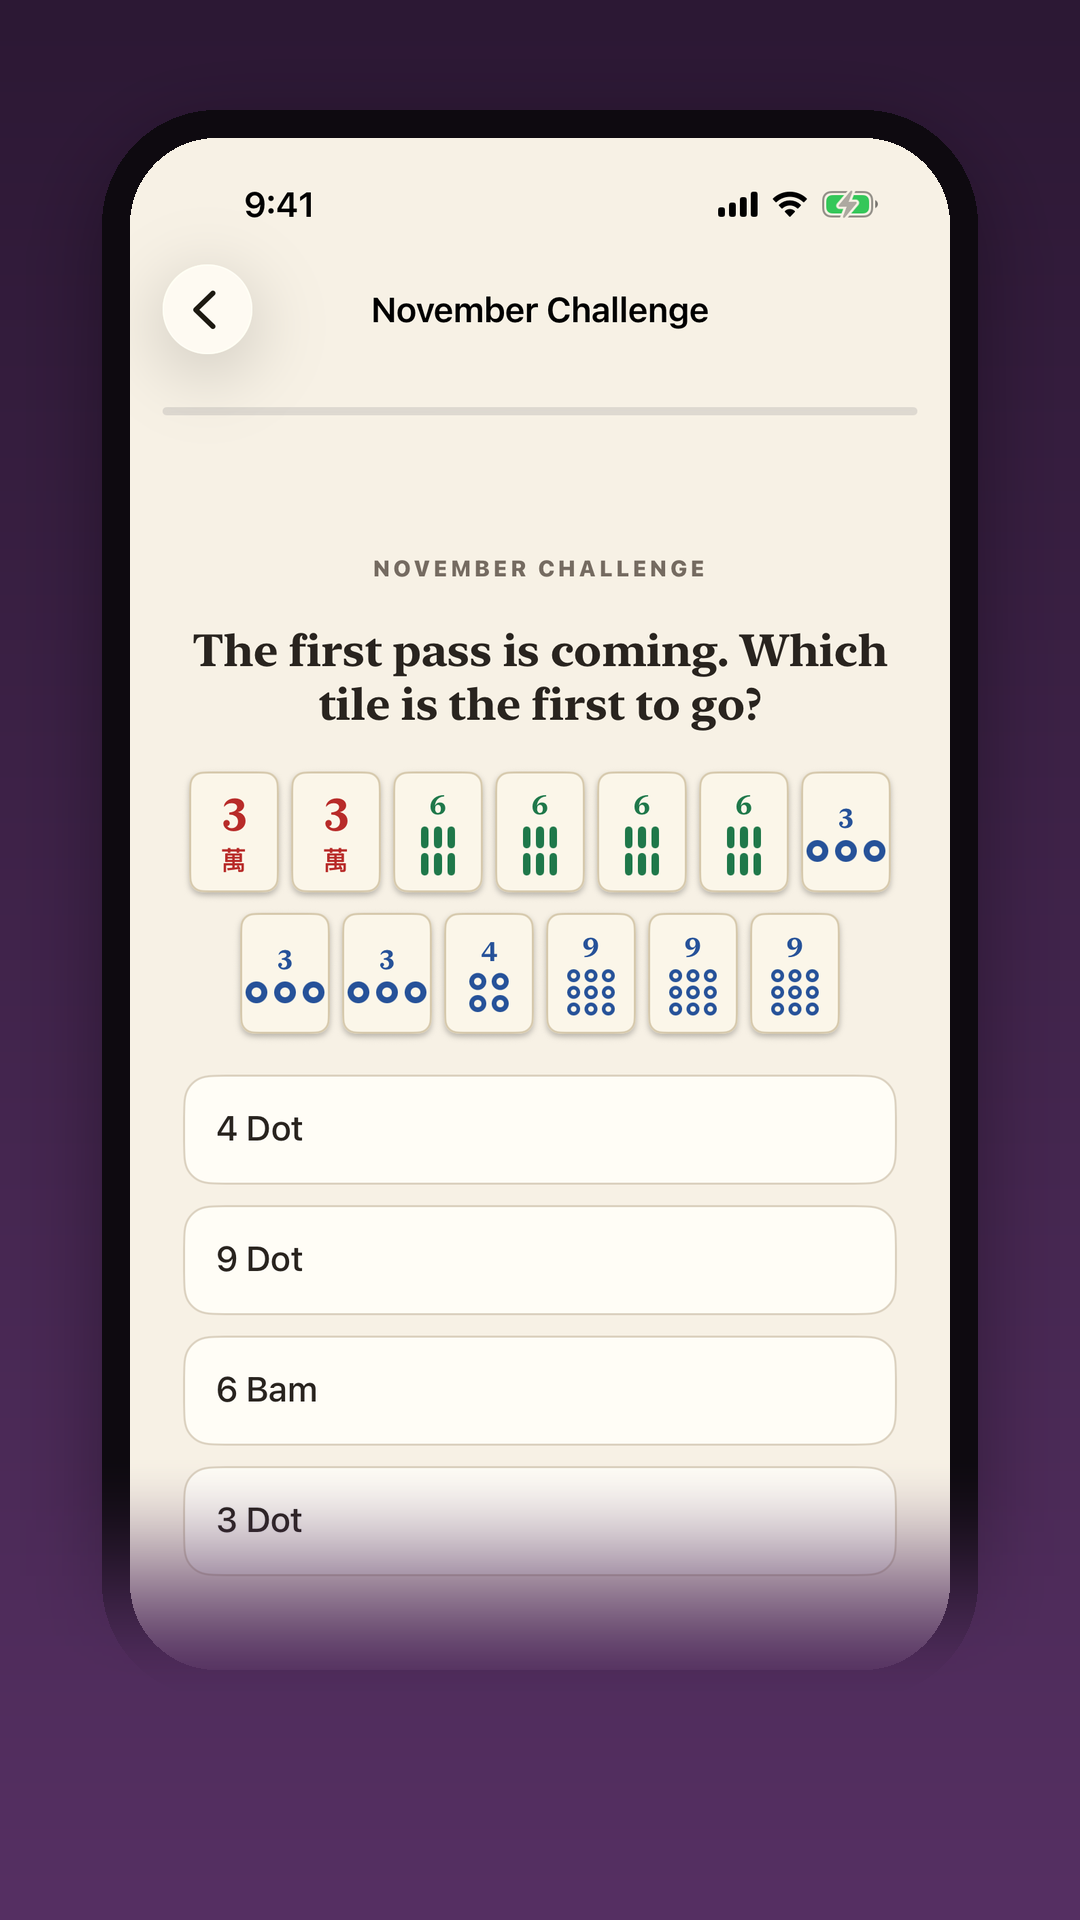
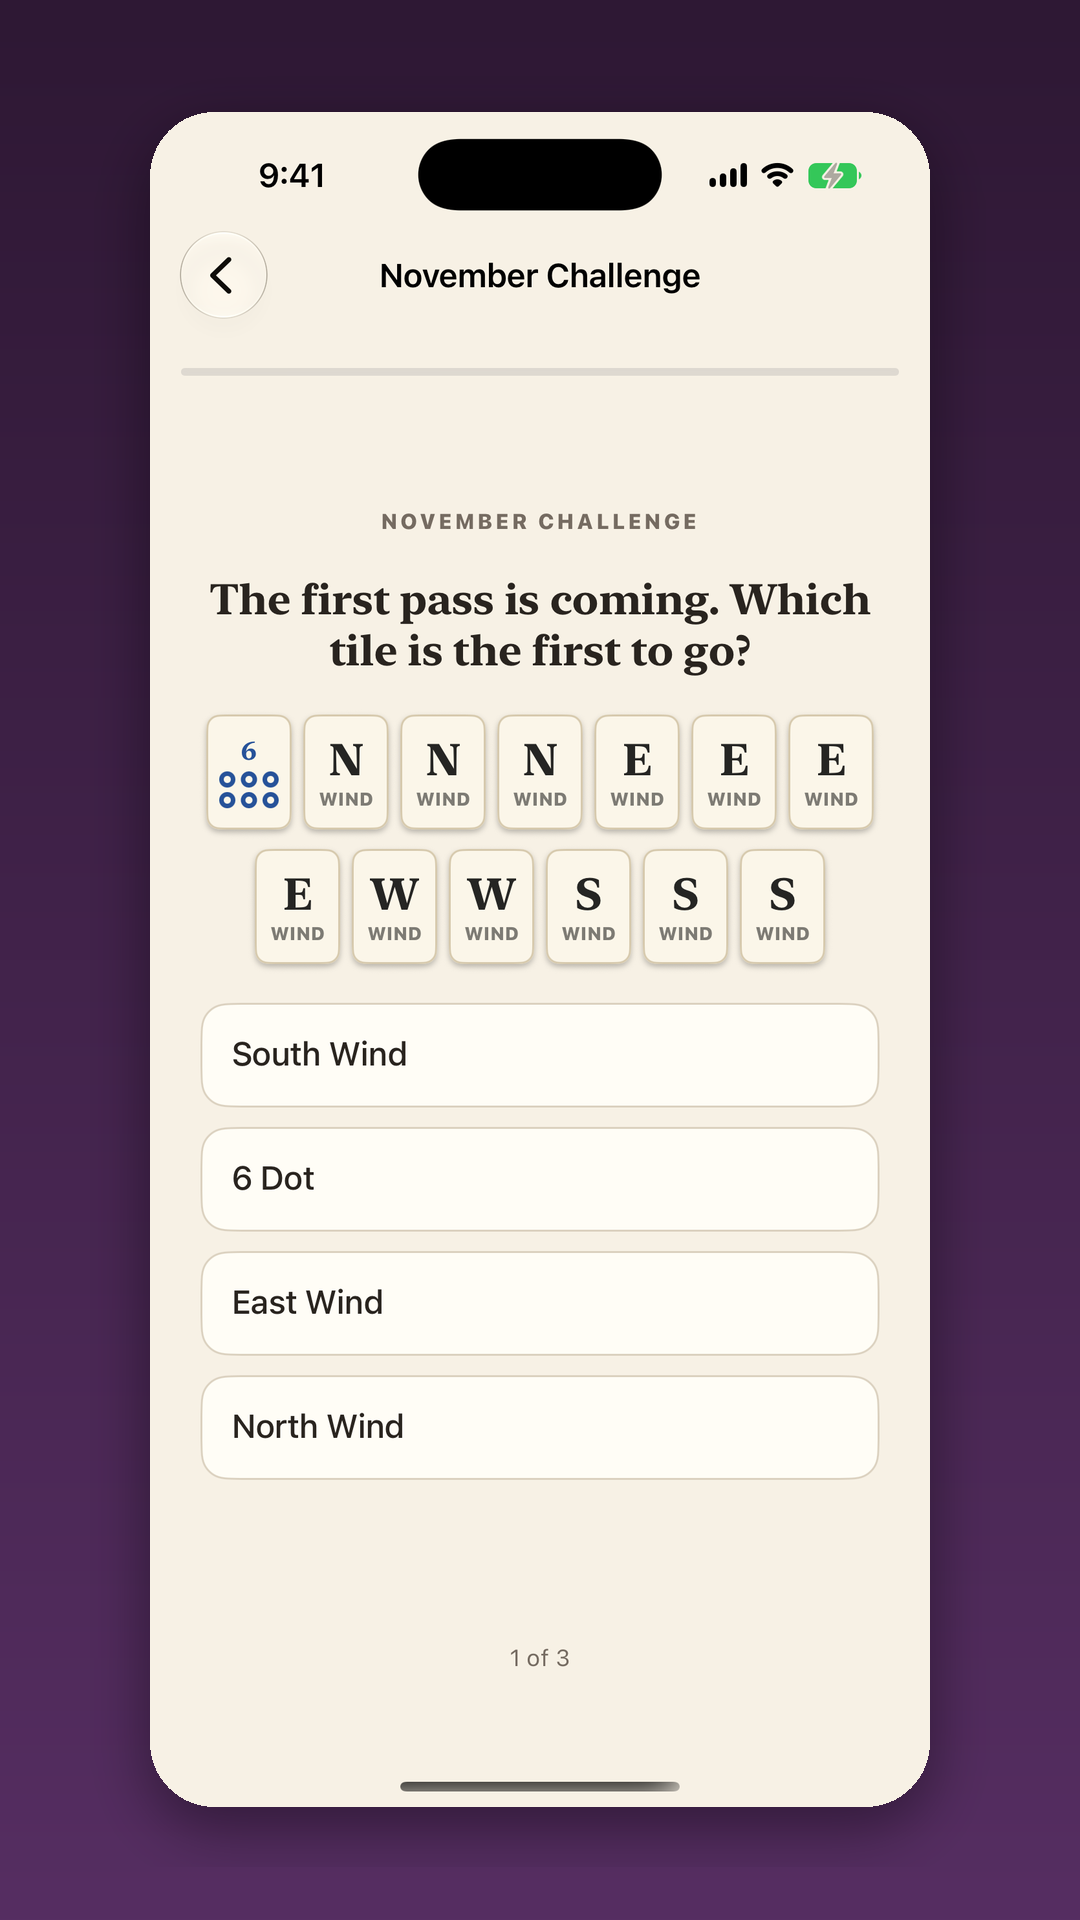
chore(event): November card and details art from the daily-round screens

Changed region(s): [[0.0917, 0.0312, 0.9167, 0.9688], [0.7639, 0.625, 0.7944, 0.6562]]

diff --git a/scripts/compose-event-art.py b/scripts/compose-event-art.py
@@ -48,8 +48,9 @@ def shadowed(canvas: Image.Image, layer: Image.Image, xy: tuple[int, int]) -> No
 def card(intro: Path, question: Path, out: Path) -> None:
     canvas = gradient(1920, 1080).convert("RGBA")
     # Two screens on the right half; the left keeps clear for Apple's overlay.
-    left = panel(intro, 470, 300, 1700, 44)
-    right = panel(question, 470, 300, 1900, 44)
+    # Crops skip the navigation bar (raw 1206x2622 capture rows).
+    left = panel(intro, 470, 385, 1390, 44)
+    right = panel(question, 470, 560, 1600, 44)
     shadowed(canvas, left, (870, (1080 - left.height) // 2 + 30))
     shadowed(canvas, right, (1390, (1080 - right.height) // 2 - 20))
     canvas.convert("RGB").save(out / "event-card-1920x1080.png")
